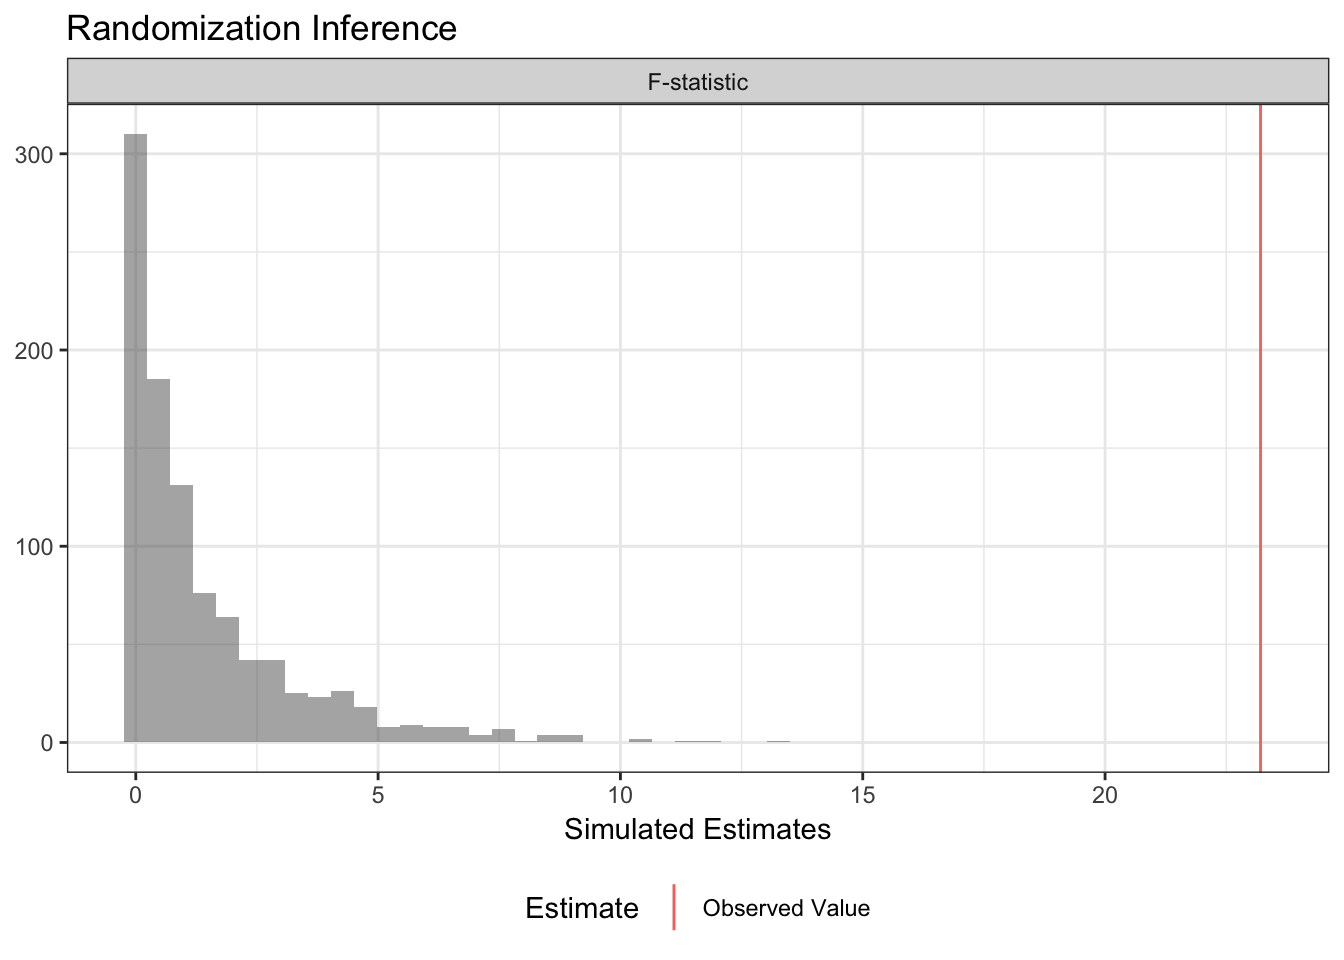
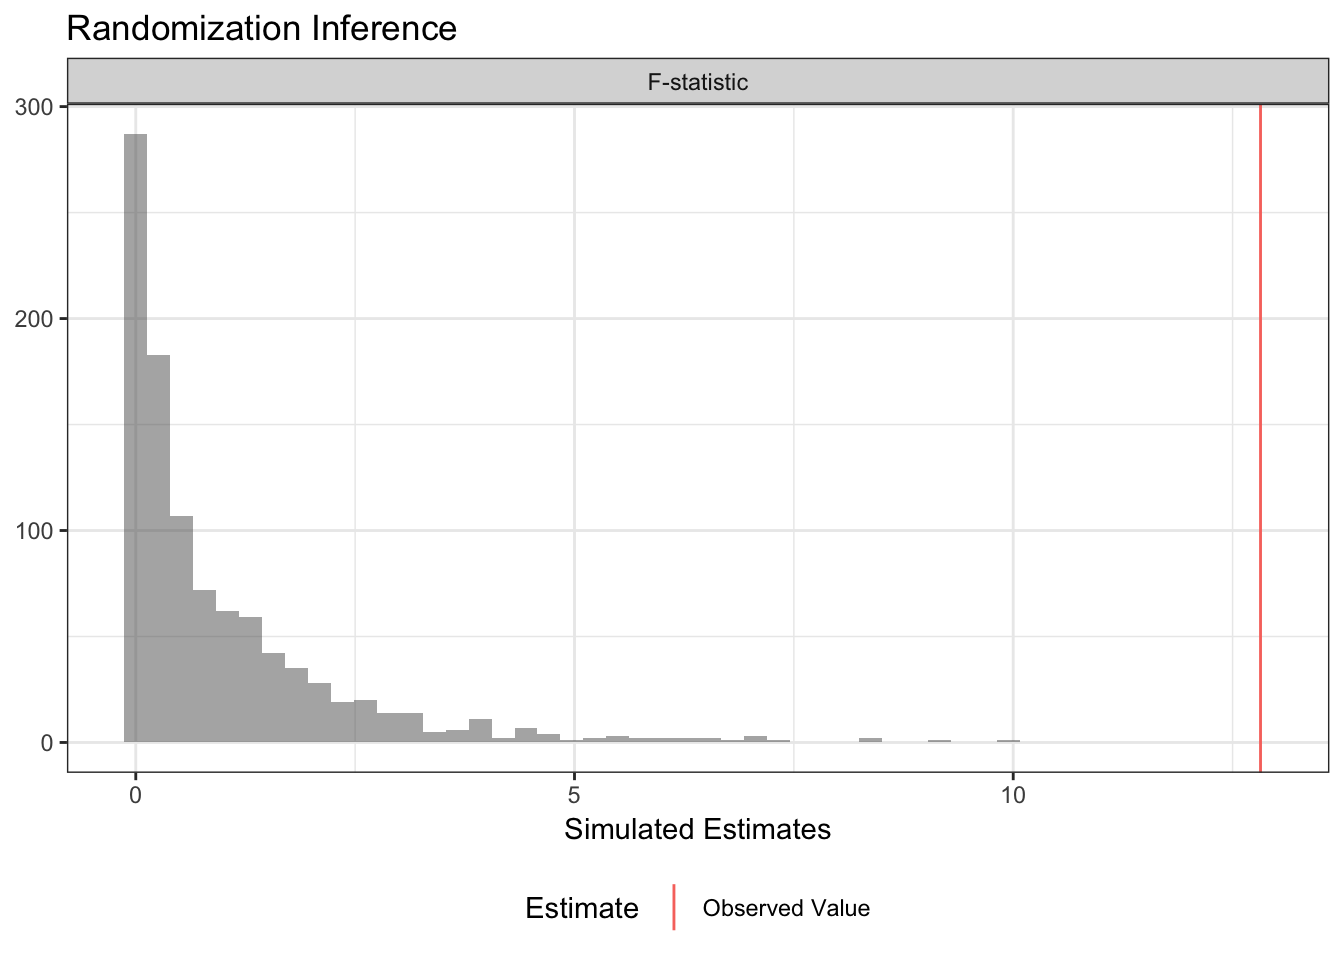
logos2

diff --git a/docs/articles/ri2_vignette.html b/docs/articles/ri2_vignette.html
@@ -194,7 +194,7 @@
 <p><img src="ri2_vignette_files/figure-html/unnamed-chunk-4-1.png" width="672"></p>
 <div class="sourceCode" id="cb16"><pre class="sourceCode r"><code class="sourceCode r"><a class="sourceLine" id="cb16-1" data-line-number="1"><span class="kw">summary</span>(ri2_out)</a></code></pre></div>
 <pre><code>##   coefficient estimate two_tailed_p_value null_ci_lower null_ci_upper
-## 1 F-statistic 1.631391              0.196    0.02801725      3.541721</code></pre>
+## 1 F-statistic 1.532795              0.224    0.01821524      4.279474</code></pre>
 <div class="sourceCode" id="cb18"><pre class="sourceCode r"><code class="sourceCode r"><a class="sourceLine" id="cb18-1" data-line-number="1"><span class="co"># for comparison</span></a>
 <a class="sourceLine" id="cb18-2" data-line-number="2"><span class="kw">anova</span>(<span class="kw">lm</span>(Y <span class="op">~</span><span class="st"> </span><span class="dv">1</span>, <span class="dt">data =</span> dat), </a>
 <a class="sourceLine" id="cb18-3" data-line-number="3">      <span class="kw">lm</span>(Y <span class="op">~</span><span class="st"> </span>Z, <span class="dt">data =</span> dat))</a></code></pre></div>
@@ -203,8 +203,8 @@
 ## Model 1: Y ~ 1
 ## Model 2: Y ~ Z
 ##   Res.Df    RSS Df Sum of Sq      F Pr(&gt;F)
-## 1     99 95.064                           
-## 2     97 91.971  2    3.0936 1.6314  0.201</code></pre>
+## 1     99 77.748                           
+## 2     97 75.366  2    2.3819 1.5328 0.2211</code></pre>
 </section><section id="interaction-terms" class="level2"><h2>Interaction terms</h2>
 <p>Oftentimes in an experiment, we’re interested the difference in average treatment effects by subgroups defined by pre-treatment characteristics. For example, we might want to know if the average treatment effect is larger for men or women. If we want to conduct a formal hypothesis test, we’re not interested in testing against the sharp null of no effect for any unit – we want to test against the null hypothesis of <strong>constant effects</strong>. In the example below, we test using the null hypothesis that all units have a constant effect equal to the estimated ATE. See Gerber and Green (2012) Chapter 9 for more information on this procedure.</p>
 <div class="sourceCode" id="cb20"><pre class="sourceCode r"><code class="sourceCode r"><a class="sourceLine" id="cb20-1" data-line-number="1">N &lt;-<span class="st"> </span><span class="dv">100</span></a>
@@ -218,8 +218,8 @@
 <a class="sourceLine" id="cb20-9" data-line-number="9"><span class="co"># Observed ATE</span></a>
 <a class="sourceLine" id="cb20-10" data-line-number="10">ate_hat &lt;-<span class="st"> </span><span class="kw">coef</span>(<span class="kw">lm</span>(Y <span class="op">~</span><span class="st"> </span>Z, <span class="dt">data =</span> dat))[<span class="dv">2</span>]</a>
 <a class="sourceLine" id="cb20-11" data-line-number="11">ate_hat</a></code></pre></div>
-<pre><code>##        Z 
-## 0.216186</code></pre>
+<pre><code>##          Z 
+## -0.0223385</code></pre>
 <div class="sourceCode" id="cb22"><pre class="sourceCode r"><code class="sourceCode r"><a class="sourceLine" id="cb22-1" data-line-number="1">ri2_out &lt;-</a>
 <a class="sourceLine" id="cb22-2" data-line-number="2"><span class="st">  </span><span class="kw"><a href="../reference/conduct_ri.html">conduct_ri</a></span>(</a>
 <a class="sourceLine" id="cb22-3" data-line-number="3">    <span class="dt">model_1 =</span> Y <span class="op">~</span><span class="st"> </span>Z <span class="op">+</span><span class="st"> </span>X, <span class="co"># restricted model</span></a>
@@ -233,7 +233,7 @@
 <p><img src="ri2_vignette_files/figure-html/unnamed-chunk-5-1.png" width="672"></p>
 <div class="sourceCode" id="cb23"><pre class="sourceCode r"><code class="sourceCode r"><a class="sourceLine" id="cb23-1" data-line-number="1"><span class="kw">summary</span>(ri2_out)</a></code></pre></div>
 <pre><code>##   coefficient estimate two_tailed_p_value null_ci_lower null_ci_upper
-## 1 F-statistic 23.20763                  0   0.002097303      6.819476</code></pre>
+## 1 F-statistic 12.81859                  0   0.001263264      4.696894</code></pre>
 <div class="sourceCode" id="cb25"><pre class="sourceCode r"><code class="sourceCode r"><a class="sourceLine" id="cb25-1" data-line-number="1"><span class="co"># for comparison</span></a>
 <a class="sourceLine" id="cb25-2" data-line-number="2"><span class="kw">anova</span>(<span class="kw">lm</span>(Y <span class="op">~</span><span class="st"> </span>Z <span class="op">+</span><span class="st"> </span>X, <span class="dt">data =</span> dat),</a>
 <a class="sourceLine" id="cb25-3" data-line-number="3">      <span class="kw">lm</span>(Y <span class="op">~</span><span class="st"> </span>Z <span class="op">+</span><span class="st"> </span>X <span class="op">+</span><span class="st"> </span>Z<span class="op">*</span>X, <span class="dt">data =</span> dat))</a></code></pre></div>
@@ -241,9 +241,9 @@
 ## 
 ## Model 1: Y ~ Z + X
 ## Model 2: Y ~ Z + X + Z * X
-##   Res.Df    RSS Df Sum of Sq      F    Pr(&gt;F)    
-## 1     97 112.09                                  
-## 2     96  90.27  1    21.822 23.208 5.429e-06 ***
+##   Res.Df     RSS Df Sum of Sq      F    Pr(&gt;F)    
+## 1     97 109.842                                  
+## 2     96  96.903  1    12.939 12.819 0.0005406 ***
 ## ---
 ## Signif. codes:  0 '***' 0.001 '**' 0.01 '*' 0.05 '.' 0.1 ' ' 1</code></pre>
 </section></section><section id="arbitrary-test-statistics" class="level1"><h1>Arbitrary test statistics</h1>
@@ -264,7 +264,7 @@
 <a class="sourceLine" id="cb27-12" data-line-number="12"></a>
 <a class="sourceLine" id="cb27-13" data-line-number="13"><span class="co"># confirm it works</span></a>
 <a class="sourceLine" id="cb27-14" data-line-number="14"><span class="kw">test_fun</span>(dat)</a></code></pre></div>
-<pre><code>## [1] 0.1657589</code></pre>
+<pre><code>## [1] 0.2464177</code></pre>
 <div class="sourceCode" id="cb29"><pre class="sourceCode r"><code class="sourceCode r"><a class="sourceLine" id="cb29-1" data-line-number="1">ri2_out &lt;-</a>
 <a class="sourceLine" id="cb29-2" data-line-number="2"><span class="kw"><a href="../reference/conduct_ri.html">conduct_ri</a></span>(</a>
 <a class="sourceLine" id="cb29-3" data-line-number="3">  <span class="dt">test_function =</span> test_fun,</a>
@@ -279,9 +279,9 @@
 <p><img src="ri2_vignette_files/figure-html/unnamed-chunk-6-1.png" width="672"></p>
 <div class="sourceCode" id="cb30"><pre class="sourceCode r"><code class="sourceCode r"><a class="sourceLine" id="cb30-1" data-line-number="1"><span class="kw">summary</span>(ri2_out)</a></code></pre></div>
 <pre><code>##             coefficient  estimate two_tailed_p_value null_ci_lower
-## 1 Custom Test Statistic 0.1657589                  0    -0.0926927
+## 1 Custom Test Statistic 0.2464177                  0    -0.1425035
 ##   null_ci_upper
-## 1    0.09312956</code></pre>
+## 1      0.145496</code></pre>
 </section><section id="balance-test" class="level2"><h2>Balance Test</h2>
 <p>Researchers sometimes conduct balance tests as a randomization check. Rather than conducting separate tests covariate-by-covariate, we might be interested in conducting an omnibus test.</p>
 <p>Imagine we’ve got three covariates <code>X1</code>, <code>X2</code>, and <code>X3</code>. We’ll get a summary balance stat (the <span class="math inline">\(F\)</span>-statistic in this case), but it really could be anything!</p>
@@ -302,8 +302,8 @@
 <a class="sourceLine" id="cb32-15" data-line-number="15"></a>
 <a class="sourceLine" id="cb32-16" data-line-number="16"><span class="co"># Confirm it works!</span></a>
 <a class="sourceLine" id="cb32-17" data-line-number="17"><span class="kw">balance_fun</span>(dat)</a></code></pre></div>
-<pre><code>##  value 
-## 2.7837</code></pre>
+<pre><code>##    value 
+## 3.754223</code></pre>
 <div class="sourceCode" id="cb34"><pre class="sourceCode r"><code class="sourceCode r"><a class="sourceLine" id="cb34-1" data-line-number="1">ri2_out &lt;-</a>
 <a class="sourceLine" id="cb34-2" data-line-number="2"><span class="st">  </span><span class="kw"><a href="../reference/conduct_ri.html">conduct_ri</a></span>(</a>
 <a class="sourceLine" id="cb34-3" data-line-number="3">  <span class="dt">test_function =</span> balance_fun,</a>
@@ -318,9 +318,9 @@
 <p><img src="ri2_vignette_files/figure-html/unnamed-chunk-7-1.png" width="672"></p>
 <div class="sourceCode" id="cb37"><pre class="sourceCode r"><code class="sourceCode r"><a class="sourceLine" id="cb37-1" data-line-number="1"><span class="kw">summary</span>(ri2_out)</a></code></pre></div>
 <pre><code>##             coefficient estimate two_tailed_p_value null_ci_lower
-## 1 Custom Test Statistic   2.7837              0.051    0.07106739
+## 1 Custom Test Statistic 3.754223              0.004    0.06306746
 ##   null_ci_upper
-## 1      3.411524</code></pre>
+## 1      2.990419</code></pre>
 <div class="sourceCode" id="cb39"><pre class="sourceCode r"><code class="sourceCode r"><a class="sourceLine" id="cb39-1" data-line-number="1"><span class="co"># For comparison</span></a>
 <a class="sourceLine" id="cb39-2" data-line-number="2"><span class="kw">summary</span>(<span class="kw">lm</span>(Z <span class="op">~</span><span class="st"> </span>X1 <span class="op">+</span><span class="st"> </span>X2 <span class="op">+</span><span class="st"> </span>X3, <span class="dt">data =</span> dat))</a></code></pre></div>
 <pre><code>## 
@@ -329,20 +329,20 @@
 ## 
 ## Residuals:
 ##      Min       1Q   Median       3Q      Max 
-## -0.77074 -0.46661  0.00624  0.44361  0.75474 
+## -0.76657 -0.43393  0.07567  0.46852  0.83179 
 ## 
 ## Coefficients:
 ##             Estimate Std. Error t value Pr(&gt;|t|)    
-## (Intercept)  0.48050    0.10464   4.592 1.33e-05 ***
-## X1          -0.10632    0.05263  -2.020   0.0462 *  
-## X2          -0.17672    0.09832  -1.797   0.0754 .  
-## X3           0.03572    0.02760   1.294   0.1987    
+## (Intercept)  0.84068    0.11656   7.212 1.27e-10 ***
+## X1           0.03668    0.05122   0.716  0.47567    
+## X2          -0.11377    0.09782  -1.163  0.24769    
+## X3          -0.09632    0.03145  -3.063  0.00284 ** 
 ## ---
 ## Signif. codes:  0 '***' 0.001 '**' 0.01 '*' 0.05 '.' 0.1 ' ' 1
 ## 
-## Residual standard error: 0.4895 on 96 degrees of freedom
-## Multiple R-squared:  0.08003,    Adjusted R-squared:  0.05128 
-## F-statistic: 2.784 on 3 and 96 DF,  p-value: 0.04501</code></pre>
+## Residual standard error: 0.4828 on 96 degrees of freedom
+## Multiple R-squared:  0.105,  Adjusted R-squared:  0.07703 
+## F-statistic: 3.754 on 3 and 96 DF,  p-value: 0.01344</code></pre>
 </section></section><section id="conclusion" class="level1"><h1>Conclusion</h1>
 <p>All of the randomization inference procedures had to, somehow or other, provide three pieces of information:</p>
 <ol type="1">

diff --git a/docs/index.html b/docs/index.html
@@ -113,9 +113,9 @@
 <p><img src="README-unnamed-chunk-4-1.png" width="672"></p>
 <div class="sourceCode" id="cb4"><pre class="sourceCode r"><code class="sourceCode r"><a class="sourceLine" id="cb4-1" data-line-number="1"><span class="kw">summary</span>(ri_out)</a>
 <a class="sourceLine" id="cb4-2" data-line-number="2"><span class="co">#&gt;   coefficient  estimate two_tailed_p_value null_ci_lower null_ci_upper</span></a>
-<a class="sourceLine" id="cb4-3" data-line-number="3"><span class="co">#&gt; 1           Z 0.4849788              0.065    -0.5083699     0.4927273</span></a></code></pre></div>
+<a class="sourceLine" id="cb4-3" data-line-number="3"><span class="co">#&gt; 1           Z 0.2341428              0.339    -0.4623574     0.4493879</span></a></code></pre></div>
 <p>The development of ri2 is supported by a Standards Grant from <a href="http://egap.org">EGAP</a> and the UK Department for International Development.</p>
-<p><img src="EGAP_logo.jpg" height="50px"><img src="dfid_logo.jpg" height="50px"></p>
+<p><img src="reference/figures/EGAP_logo.jpg" height="50px"><img src="reference/figures/dfid_logo.jpg" height="50px"></p>
 </div>
   </div>
 

diff --git a/README.md b/README.md
@@ -64,12 +64,12 @@ plot(ri_out)
 
 ``` r
 summary(ri_out)
-#>   coefficient  estimate two_tailed_p_value null_ci_lower null_ci_upper
-#> 1           Z 0.0953914              0.722    -0.5377486     0.5284404
+#>   coefficient   estimate two_tailed_p_value null_ci_lower null_ci_upper
+#> 1           Z -0.5887379              0.022    -0.4911486     0.4927481
 ```
 
 The development of ri2 is supported by a Standards Grant from
 [EGAP](http://egap.org) and the UK Department for International
 Development.
 
-<img src="EGAP_logo.jpg" height="50px" /><img src="dfid_logo.jpg" height="50px" />
+<img src="man/figures/EGAP_logo.jpg" height="50px" /><img src="man/figures/dfid_logo.jpg" height="50px" />
